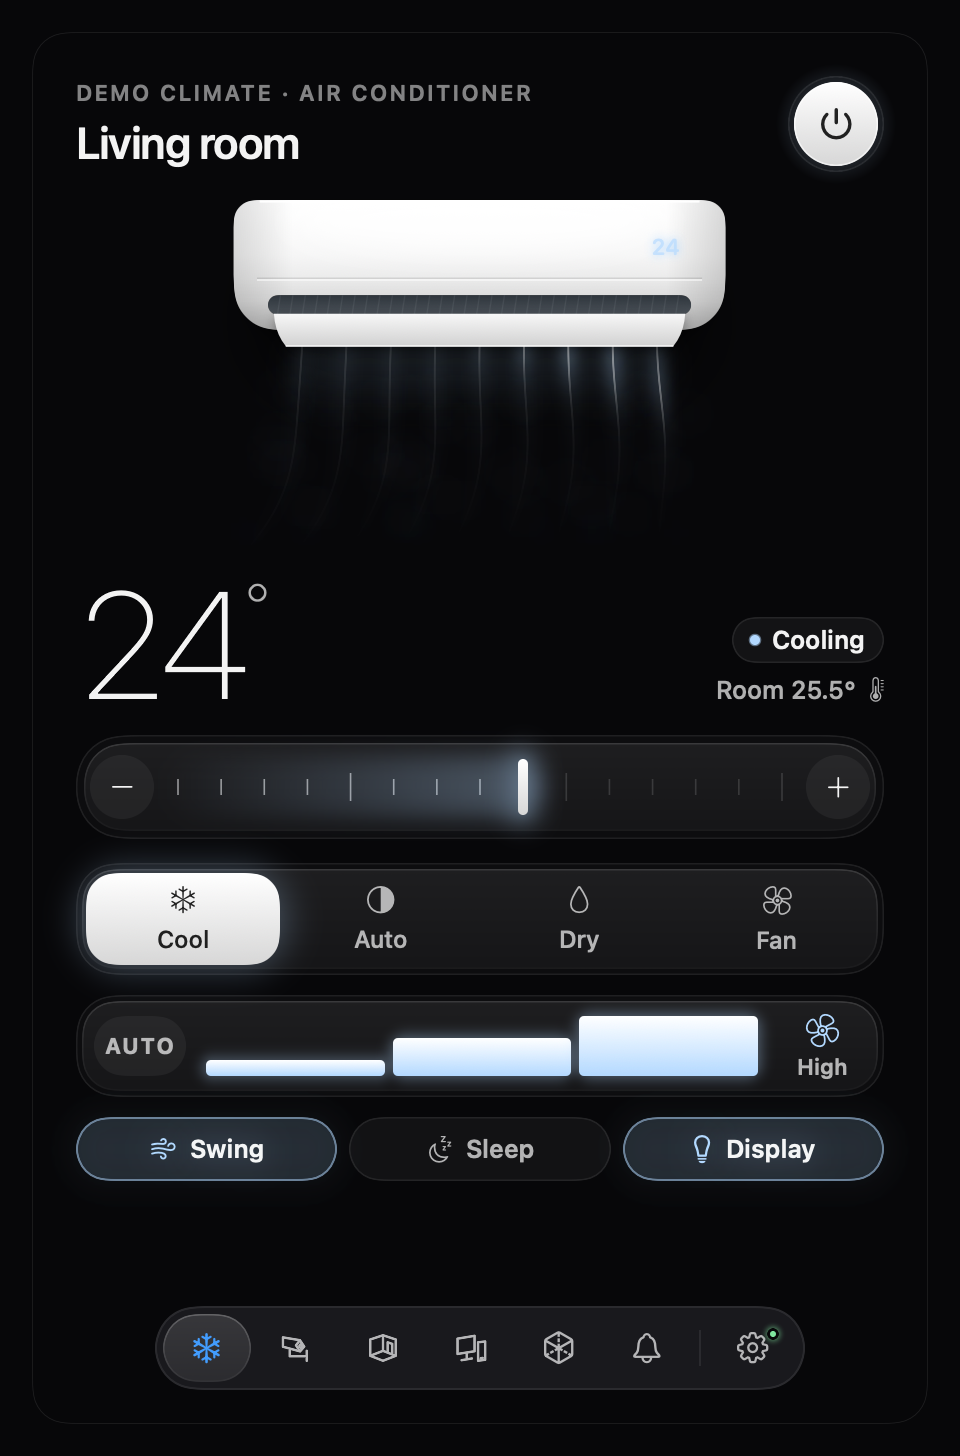
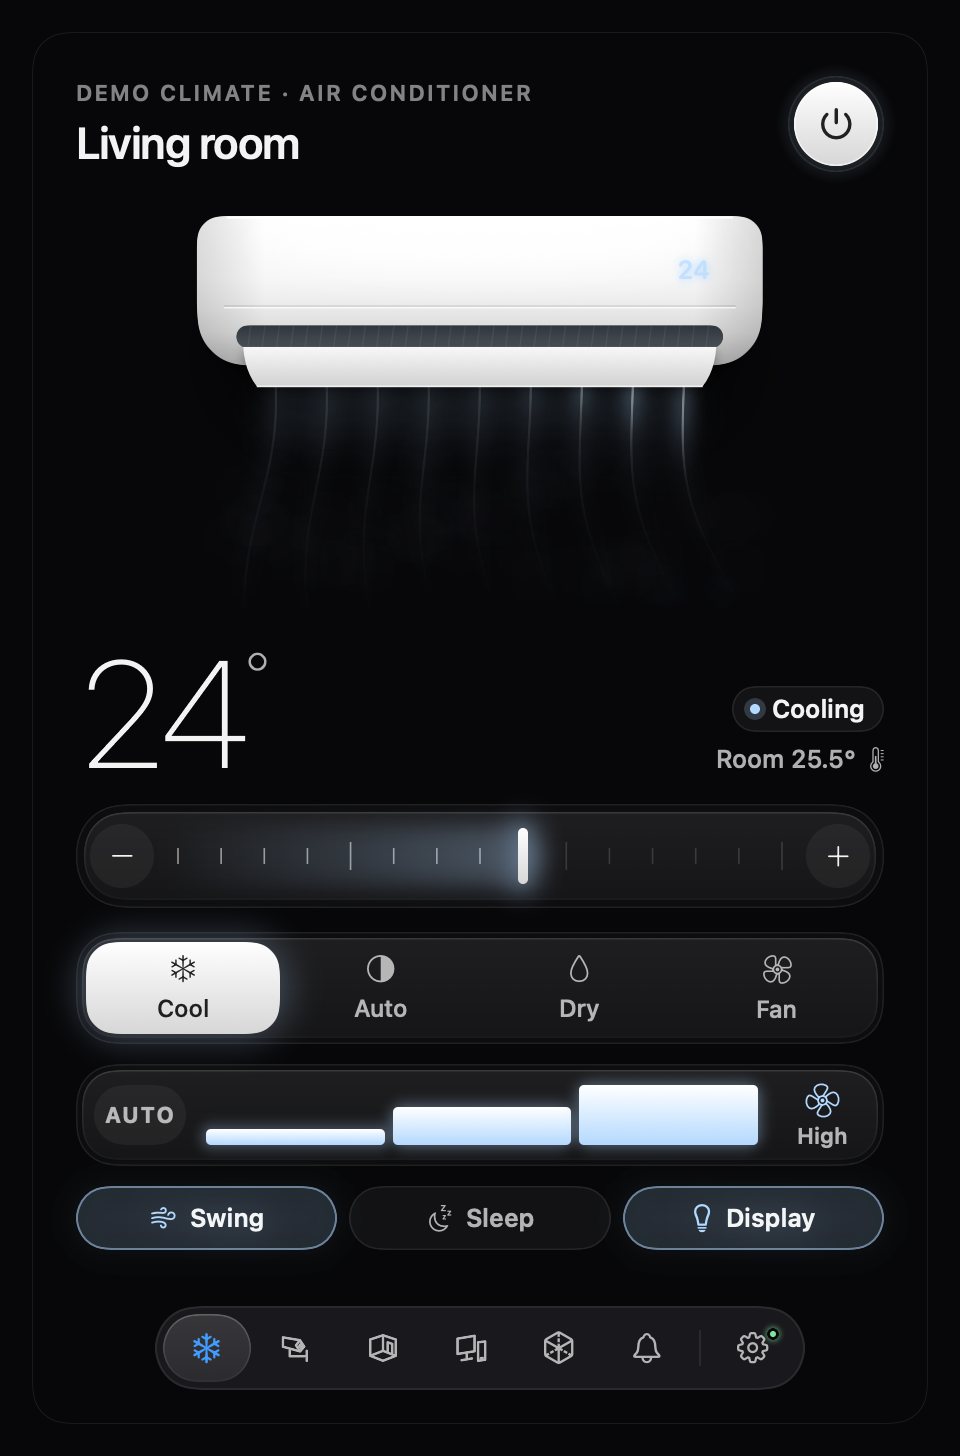
Update climate illustration scale and responsive airflow

Changed region(s): [[0.0625, 0.4018, 0.9375, 0.8654], [0.1875, 0.1236, 0.8125, 0.3091], [0.4375, 0.8345, 0.5625, 0.8654]]

diff --git a/Sources/Hearth/Views/ACUnitView.swift b/Sources/Hearth/Views/ACUnitView.swift
@@ -15,15 +15,18 @@ struct ACUnitView: View, Animatable {
     var display: String?
     /// How far the air falls, as a fraction of the width.
     var reach: CGFloat = 0.62
+    /// Normalized visual chill only: 1 is the device's coolest target, 0 its warmest.
+    /// Neutral keeps existing illustration callers unchanged; it never controls the AC.
+    var chill: Double = ACAirAppearance.neutralChill
     /// Fixed time is used only by the offline illustration renderer.
     var previewTime: Double?
     /// Reduce Motion: the air drifts at a third of the pace.
     @Environment(\.accessibilityReduceMotion) private var reduceMotion
     @Environment(\.colorScheme) private var scheme
 
-    var animatableData: Double {
-        get { power }
-        set { power = newValue }
+    var animatableData: AnimatablePair<Double, Double> {
+        get { AnimatablePair(power, chill) }
+        set { power = newValue.first; chill = newValue.second }
     }
 
     private var h: CGFloat { width * 0.265 }
@@ -204,6 +207,7 @@ struct ACUnitView: View, Animatable {
         let ventW = width * 0.82
         let sway = swing ? sin(t * 0.7) * 0.4 : 0
         let strength = min(1, max(0, intensity))
+        let airAppearance = ACAirAppearance(chill: chill)
         let pace = 0.5 + strength * 0.8
 
         // A fine veil: many small, faint puffs that widen and fade as they fall.
@@ -224,7 +228,7 @@ struct ACUnitView: View, Animatable {
             let size = width * (0.018 + 0.085 * age)
             // Bright as it leaves the vent, thinning to nothing.
             let envelope = pow(min(age * 6, 1), 0.6) * pow(1 - age, 1.8)
-            let alpha = envelope * (0.03 + 0.028 * strength) * power
+            let alpha = envelope * (0.03 + 0.028 * strength) * power * airAppearance.mistStrength
             let puff = CGRect(x: x - size, y: y - size * 0.6, width: size * 2, height: size * 1.2)
             mist.fill(Path(ellipseIn: puff), with: .radialGradient(
                 Gradient(colors: [color.opacity(alpha), color.opacity(0)]),
@@ -237,7 +241,7 @@ struct ACUnitView: View, Animatable {
         sheet.addFilter(.blur(radius: width * 0.035))
         sheet.fill(Path(roundedRect: CGRect(x: ventMinX + ventW * 0.04, y: top - 2, width: ventW * 0.92, height: fall * 0.28),
                         cornerRadius: fall * 0.14),
-                   with: .linearGradient(Gradient(colors: [color.opacity(0.16 * power), color.opacity(0)]),
+                   with: .linearGradient(Gradient(colors: [color.opacity(0.16 * power * airAppearance.mistStrength), color.opacity(0)]),
                                          startPoint: CGPoint(x: r.midX, y: top), endPoint: CGPoint(x: r.midX, y: top + fall * 0.28)))
 
         // Continuous, gently spreading lanes connect the flow to the vent. A
@@ -266,9 +270,9 @@ struct ACUnitView: View, Animatable {
                 let pulse = exp(-pow((p - head) / 0.19, 2))
                 let alpha = power * envelope * (0.16 + pulse * (0.33 + strength * 0.21))
                 s == 0 ? path.move(to: point(p)) : path.addLine(to: point(p))
-                stops.append(.init(color: color.opacity(alpha * 0.5), location: p))
+                stops.append(.init(color: color.opacity(alpha * 0.5 * airAppearance.ribbonStrength), location: p))
                 let core = scheme == .dark ? Color.white : color
-                coreStops.append(.init(color: core.opacity(alpha * (scheme == .dark ? 0.7 : 0.85)), location: p))
+                coreStops.append(.init(color: core.opacity(alpha * (scheme == .dark ? 0.7 : 0.85) * airAppearance.coreStrength), location: p))
             }
             let start = CGPoint(x: r.midX, y: top), end = CGPoint(x: r.midX, y: top + fall * 0.92)
             var glow = ctx
@@ -286,4 +290,40 @@ struct ACUnitView: View, Animatable {
     }
 
     private func fract(_ x: Double) -> Double { x - floor(x) }
+}
+
+/// Appearance-only mapping, relative to the connected device's range rather than
+/// a Celsius threshold. The same physical targets therefore look alike in °C/°F.
+struct ACAirAppearance {
+    static let neutralChill = 0.5
+    let chill: Double
+
+    init(chill: Double) {
+        self.chill = chill.isFinite ? min(max(chill, 0), 1) : Self.neutralChill
+    }
+
+    static func normalizedChill(target: Double?, lowerBound: Double?, upperBound: Double?) -> Double {
+        guard let target, target.isFinite,
+              let lowerBound, lowerBound.isFinite,
+              let upperBound, upperBound.isFinite,
+              lowerBound < upperBound else { return neutralChill }
+        let span = upperBound - lowerBound
+        guard span.isFinite else { return neutralChill }
+        let bounded = min(max(target, lowerBound), upperBound)
+        return min(max(1 - (bounded - lowerBound) / span, 0), 1)
+    }
+
+    // More defined, icy lanes at cooler targets, with a much smaller change to
+    // the veil. Fan intensity still owns pace and particle count; mode owns hue.
+    var ribbonStrength: Double { 1 + (chill - Self.neutralChill) * 0.36 }
+    var coreStrength: Double { 1 + (chill - Self.neutralChill) * 0.40 }
+    var mistStrength: Double { 1 + (chill - Self.neutralChill) * 0.16 }
+}
+
+/// The canvas includes shadow and airflow outside the unit's physical body.
+/// Kept explicit so a layout fixture can guard the panel's 404 pt content width.
+enum ClimateIllustrationLayout {
+    static let bodyWidth: CGFloat = 246 * 1.15
+    static let topSpacing: CGFloat = 10
+    static let canvasWidth: CGFloat = bodyWidth * 1.36
 }

diff --git a/Tests/HearthTests/ACAirAppearanceTests.swift b/Tests/HearthTests/ACAirAppearanceTests.swift
@@ -1,0 +1,66 @@
+import XCTest
+@testable import Hearth
+
+final class ACAirAppearanceTests: XCTestCase {
+    func testCoolerTargetsMakeMoreDefinedAirMonotonically() {
+        let targets = [30.0, 27, 24, 21, 18, 16]
+        let values = targets.map { ACAirAppearance.normalizedChill(target: $0, lowerBound: 16, upperBound: 30) }
+        XCTAssertEqual(values.first, 0)
+        XCTAssertEqual(values.last, 1)
+        for (warmer, cooler) in zip(values, values.dropFirst()) {
+            XCTAssertGreaterThan(cooler, warmer)
+            XCTAssertGreaterThan(ACAirAppearance(chill: cooler).ribbonStrength, ACAirAppearance(chill: warmer).ribbonStrength)
+            XCTAssertGreaterThan(ACAirAppearance(chill: cooler).coreStrength, ACAirAppearance(chill: warmer).coreStrength)
+        }
+    }
+
+    func testOutOfRangeTargetsClampAtDeviceEndpoints() {
+        XCTAssertEqual(ACAirAppearance.normalizedChill(target: -100, lowerBound: 16, upperBound: 30), 1)
+        XCTAssertEqual(ACAirAppearance.normalizedChill(target: 200, lowerBound: 16, upperBound: 30), 0)
+    }
+
+    func testMissingNonfiniteAndInvalidCapabilitiesStayNeutral() {
+        let invalid: [(Double?, Double?, Double?)] = [
+            (nil, 16, 30), (24, nil, 30), (24, 16, nil),
+            (.nan, 16, 30), (.infinity, 16, 30), (-.infinity, 16, 30),
+            (24, .nan, 30), (24, 16, .infinity), (24, 30, 16), (24, 24, 24),
+            (24, -Double.greatestFiniteMagnitude, Double.greatestFiniteMagnitude),
+        ]
+        for (target, low, high) in invalid {
+            XCTAssertEqual(ACAirAppearance.normalizedChill(target: target, lowerBound: low, upperBound: high), 0.5)
+        }
+    }
+
+    func testCelsiusAndFahrenheitRangesProduceEquivalentChill() {
+        for celsius in stride(from: 16.0, through: 30.0, by: 0.5) {
+            let fahrenheit = celsius * 1.8 + 32
+            let c = ACAirAppearance.normalizedChill(target: celsius, lowerBound: 16, upperBound: 30)
+            let f = ACAirAppearance.normalizedChill(target: fahrenheit, lowerBound: 60.8, upperBound: 86)
+            XCTAssertEqual(c, f, accuracy: 0.000001)
+        }
+    }
+
+    func testNeutralDefaultPreservesOtherIllustrationCallersAndModulationIsRestrained() {
+        let neutral = ACAirAppearance(chill: ACAirAppearance.neutralChill)
+        XCTAssertEqual(neutral.ribbonStrength, 1)
+        XCTAssertEqual(neutral.coreStrength, 1)
+        XCTAssertEqual(neutral.mistStrength, 1)
+        XCTAssertEqual(ACAirAppearance(chill: .nan).chill, 0.5)
+        XCTAssertEqual(ACAirAppearance(chill: -.infinity).chill, 0.5)
+        XCTAssertEqual(ACAirAppearance(chill: -1).chill, 0)
+        XCTAssertEqual(ACAirAppearance(chill: 2).chill, 1)
+        XCTAssertLessThanOrEqual(ACAirAppearance(chill: 1).coreStrength, 1.2)
+        XCTAssertLessThanOrEqual(ACAirAppearance(chill: 1).mistStrength, 1.08)
+    }
+
+    func testEnlargedIllustrationFits404PointContentWidthAndMovesWholeFlowDown() {
+        XCTAssertEqual(ClimateIllustrationLayout.bodyWidth, 282.9, accuracy: 0.000001)
+        XCTAssertLessThan(ClimateIllustrationLayout.canvasWidth, 404)
+        XCTAssertEqual(ClimateIllustrationLayout.topSpacing - 2, 8)
+        // A natural VStack frame grows with the illustration, moving every
+        // following control together rather than overlaying the temperature.
+        let oldHeight = 16 + 246.0 * (0.265 + 0.46)
+        let newHeight = 16 + Double(ClimateIllustrationLayout.bodyWidth) * (0.265 + 0.46)
+        XCTAssertGreaterThan(newHeight, oldHeight)
+    }
+}

diff --git a/Sources/Hearth/ClimateReview.swift b/Sources/Hearth/ClimateReview.swift
@@ -1,0 +1,57 @@
+#if DEBUG
+import AppKit
+import SwiftUI
+
+/// Interactive appearance review with a tiny in-memory service simulator. This
+/// returns before normal startup and cannot connect to a saved Home Assistant.
+@MainActor
+enum ClimateReview {
+    static func open() -> NSWindow {
+        let store = HomeStore()
+        let id = "climate.preview_workspace"
+        let climate = Entity(id: id, state: "cool", attributes: ["friendly_name": "Workspace", "temperature": 24,
+            "current_temperature": 25.5, "min_temp": 16, "max_temp": 30, "target_temp_step": 0.5,
+            "hvac_modes": ["off", "cool", "auto", "dry", "fan_only"],
+            "fan_modes": ["auto", "low", "medium", "high"], "fan_mode": "high",
+            "swing_modes": ["off", "on"], "swing_mode": "on", "supported_features": 128])
+        let entities = [climate,
+            Entity(id: "number.preview_workspace_sleep_timer", state: "0", attributes: ["min": 0, "max": 8]),
+            Entity(id: "switch.preview_workspace_lighting", state: "on", attributes: [:])]
+        store.playDemo(devices: [DeviceInfo(id: "preview-ac", name: "Workspace air conditioner", manufacturer: "Demo Climate", model: "Sample AC")],
+                       entities: entities, deviceOf: Dictionary(uniqueKeysWithValues: entities.map { ($0.id, "preview-ac") })) { [weak store] body in
+            MainActor.assumeIsolated {
+                guard let store, var entity = store.entities[id] else { return nil }
+                let data = body["service_data"] as? JSON ?? [:]
+                switch body["service"] as? String {
+                case "set_temperature": entity.attributes["temperature"] = data["temperature"]
+                case "set_hvac_mode": entity.state = data["hvac_mode"] as? String ?? entity.state
+                case "set_fan_mode": entity.attributes["fan_mode"] = data["fan_mode"]
+                case "set_swing_mode": entity.attributes["swing_mode"] = data["swing_mode"]
+                case "turn_off" where body["domain"] as? String == "climate": entity.state = "off"
+                case "turn_on" where body["domain"] as? String == "climate": entity.state = "cool"
+                default: break
+                }
+                store.playDemo(update: [entity])
+                return nil
+            }
+        }
+        let content = ScrollView {
+            ClimatePage(entityID: id, shown: true)
+                .padding(22).padding(.bottom, 54)
+        }
+        .scrollIndicators(.never)
+        .frame(width: Theme.panelSize.width, height: Theme.panelSize.height)
+        .foregroundStyle(Theme.ink).background(Theme.base)
+        .environmentObject(store).environmentObject(ActivityLog(previewItems: []))
+        .preferredColorScheme(.dark)
+        let window = NSWindow(contentRect: NSRect(x: 200, y: 180, width: Theme.panelSize.width, height: Theme.panelSize.height),
+                              styleMask: [.titled, .closable], backing: .buffered, defer: false)
+        window.title = "Hearth · Offline AC Review"
+        window.isReleasedWhenClosed = false
+        window.contentView = NSHostingView(rootView: content)
+        window.makeKeyAndOrderFront(nil)
+        NSApp.activate(ignoringOtherApps: true)
+        return window
+    }
+}
+#endif

diff --git a/Sources/Hearth/HearthApp.swift b/Sources/Hearth/HearthApp.swift
@@ -59,7 +59,7 @@ final class AppDelegate: NSObject, NSApplicationDelegate, UNUserNotificationCent
     // AppDelegate is constructed before the exporter configures volatile stores.
     // Offline rendering must therefore select memory-only activity immediately.
     @MainActor let log = ActivityLog(previewItems: CommandLine.arguments.contains {
-        ["--render-preview", "--render-cars", "--render-art", "--review-rooms"].contains($0)
+        ["--render-preview", "--render-cars", "--render-art", "--review-rooms", "--review-climate"].contains($0)
     } ? [] : nil)
     private var debugWindow: NSWindow?
     private var pendingWidgetPage: String?
@@ -73,12 +73,16 @@ final class AppDelegate: NSObject, NSApplicationDelegate, UNUserNotificationCent
 
     @MainActor
     func applicationDidFinishLaunching(_ notification: Notification) {
-        #if DEBUG
-        if CommandLine.arguments.contains("--review-rooms") {
-            debugWindow = RoomsReview.open()
+        if CommandLine.arguments.contains("--review-rooms") || CommandLine.arguments.contains("--review-climate") {
+            #if DEBUG
+            debugWindow = CommandLine.arguments.contains("--review-climate") ? ClimateReview.open() : RoomsReview.open()
             return
+            #else
+            // Never silently turn an offline review into a saved-home session.
+            fputs("Offline interactive reviews require a debug build. No home connection was started.\n", stderr)
+            exit(2)
+            #endif
         }
-        #endif
         // Offline previews exit before sign-in, notifications or device subscriptions.
         if let i = CommandLine.arguments.firstIndex(of: "--render-preview"), i + 1 < CommandLine.arguments.count {
             do { try PreviewExporter.export(to: CommandLine.arguments[i + 1]) }
@@ -266,7 +270,7 @@ final class AppDelegate: NSObject, NSApplicationDelegate, UNUserNotificationCent
 
     #if DEBUG
     func applicationShouldTerminateAfterLastWindowClosed(_ sender: NSApplication) -> Bool {
-        CommandLine.arguments.contains("--review-rooms")
+        CommandLine.arguments.contains("--review-rooms") || CommandLine.arguments.contains("--review-climate")
     }
     #endif
 

diff --git a/Sources/Hearth/Views/ClimateViews.swift b/Sources/Hearth/Views/ClimateViews.swift
@@ -129,6 +129,9 @@ struct ClimatePage: View {
 
     private func page(_ c: Climate) -> some View {
         let target = dragTarget ?? c.target
+        let chill = ACAirAppearance.normalizedChill(target: target,
+                                                  lowerBound: c.temperatureRange?.lowerBound,
+                                                  upperBound: c.temperatureRange?.upperBound)
         let air = Theme.air(c.on ? c.mode : "off")
         let maker = store.device(of: entityID)?.manufacturer.map { $0 == "LGE" ? "LG" : $0 }
         let sensors = store.siblings(of: entityID, domain: "sensor")
@@ -152,10 +155,12 @@ struct ClimatePage: View {
 
             // The unit
             ACUnitView(power: c.on ? 1 : 0, mode: c.mode, intensity: c.intensity, swing: c.swinging,
-                       width: 246, display: c.on ? target.map(degrees) : nil, reach: 0.46)
+                       width: ClimateIllustrationLayout.bodyWidth, display: c.on ? target.map(degrees) : nil,
+                       reach: 0.46, chill: chill)
                 .animation(.glide, value: c.on)
+                .animation(reduceMotion ? .easeOut(duration: 0.1) : .glide, value: chill)
                 .frame(maxWidth: .infinity)
-                .padding(.top, 2)
+                .padding(.top, ClimateIllustrationLayout.topSpacing)
                 .reveal(shown, 1)
 
             // Temperature and status

diff --git a/Sources/Hearth/PreviewExporter.swift b/Sources/Hearth/PreviewExporter.swift
@@ -156,6 +156,15 @@ enum PreviewExporter {
                 try save(MediaPage(players: players, shown: true, previewLayout: layout), name: "speakers-\(layout)-\(suffix)", width: 368,
                          scheme: scheme, store: speakers, log: log, out: out)
             }
+            try save(HStack(alignment: .top, spacing: 16) {
+                ForEach([16.0, 24, 30], id: \.self) { value in
+                    VStack(spacing: 6) {
+                        Text("\(Int(value))°").font(.system(size: 18, weight: .medium)).foregroundStyle(Theme.ink)
+                        ACUnitView(power: 1, mode: "cool", intensity: 0.8, swing: false, width: 180, display: "\(Int(value))°",
+                                   reach: 0.46, chill: ACAirAppearance.normalizedChill(target: value, lowerBound: 16, upperBound: 30), previewTime: 1.4)
+                    }
+                }
+            }, name: "airflow-temperature-\(suffix)", width: 780, scheme: scheme, store: climateStore, log: log, out: out)
             try save(ACUnitView(power: 1, mode: "cool", intensity: 0.8, swing: true, width: 240, display: "24°", previewTime: 1.4),
                      name: "airflow-\(suffix)", width: 340, scheme: scheme, store: engine.store, log: log, out: out)
             try save(PillAndWidgetSettings(), name: "settings-\(suffix)", width: 368,

diff --git a/Task Update/README.md b/Task Update/README.md
@@ -92,3 +92,9 @@ These are the remaining requirements after the completed 0.1.3 implementation an
 The [0.1.3 verification](../docs/release-verification-0.1.3.md) records the current 137-case source batch and artifact. Earlier source batches passed 107, 110 and 129 cases. The historical [0.1.2 verification](../docs/release-verification-0.1.2.md) records its 57-case suite and exact app source/checksum; [0.1.1 verification](../docs/release-verification-0.1.1.md) also remains unchanged. Later changes do not alter an older DMG's provenance.
 
 See [source/release status](../docs/open-source-readiness.md), [navigation](../docs/navigation.md), [widgets](../docs/widgets.md), [release policy](../docs/release-policy.md) and [map lighting](../docs/map-lighting.md). Private records, owner recordings, credentials and household runtime stores are excluded from public Git history.
+
+## 16 October 2026 follow-up verification
+
+The Rooms, notification-geometry, native illustration and integration-guide batch passed 278 XCTest cases (two unsupported GPU skips, zero failures), 13 maintenance fixtures, 14 release-tool fixtures, release/contrast/shell and optional universal widget gates. The owner confirmed the revised room drag and ordinary click both work in the synthetic review. The first unsuccessful drag implementation was replaced before this confirmation.
+
+The subsequent AC appearance change is prepared separately: 15% larger body, an 8-point lower natural flow for the unit and all its controls, and restrained set-point-responsive airflow definition. Its own build/tests and final local installation are separate delivery checks. The previous 0.1.3 preview download remains unchanged.

diff --git a/docs/screenshots/README.md b/docs/screenshots/README.md
@@ -43,3 +43,7 @@ Generated with the 0.1.5 development candidate (build 20261016.2), separately fr
 New `guide-account-*`, `guide-integrations-*` and `guide-integration-add-*` captures use the actual native Account and integration-manager views with explicit in-memory snapshots. The generic Demo User, homeassistant.local address, sample entries and HomeKit catalog are fixtures. Preview tasks return before account attachment, catalog requests, setup flows or avatar loading; brand-icon requests are disabled and the standard fallback symbol is shown. No Apple Home household, pairing PIN/QR, saved account or physical device is used. Controls in these screenshots are illustrative, not a recorded integration setup.
 
 Room-card pixels, illustration scales and both integration screens were inspected after rendering. Actual mouse interaction is a separate verification step; a rendered image does not establish that dragging or physical controls work.
+
+### AC follow-up
+
+The two climate guides were refreshed again from the 0.1.5 build 20261016.3 candidate: the unit body is 15% larger, its natural layout begins 8 points lower and all following controls move with it. Airflow definition responds smoothly to the selected temperature relative to the device’s validated range; mode still determines hue and fan state determines pace. Fixed-time 16°/24°/30° comparisons are developer review aids, not household readings.

diff --git a/docs/using-hearth.md b/docs/using-hearth.md
@@ -84,6 +84,8 @@ Use [the HomeKit walkthrough](homekit.md) to choose **HomeKit Device** for impor
 
 Open the device itself rather than assuming every card offers the same functions. Online status, supported modes and exposed actions come from Home Assistant. A service accepting a request does not prove that a physical device carried it out. When an action fails, inspect the reported state and test the same action in Home Assistant before changing the installation.
 
+Airflow becomes more defined toward the device’s cooler set points, while mode and fan speed keep their own visual cues.
+
 ![Sample climate controls in dark appearance](screenshots/guide-climate-dark.png)
 
 Climate numbers are sample readings. A unit may expose cooling without heating, a different temperature step, or fewer fan/swing options. Unavailable functions are not invented.

diff --git a/README.md b/README.md
@@ -201,7 +201,7 @@ Rooms and floors come from Home Assistant:
 3. Assign each device to its room in Home Assistant's device settings.
 4. Open **Rooms** in Hearth to browse that arrangement and its devices.
 
-Choose the overview for rooms grouped by floor, or the interactive view to select a room and see its devices without leaving the page. Both lead to the same existing device controls; the interactive layout is not a measured floor plan.
+Choose the overview for rooms grouped by floor, or drag/scroll the square cards in the interactive view to select a room and see its devices without leaving the page. Both lead to the same existing device controls; the interactive layout is not a measured floor plan.
 
 <table>
   <tr>
